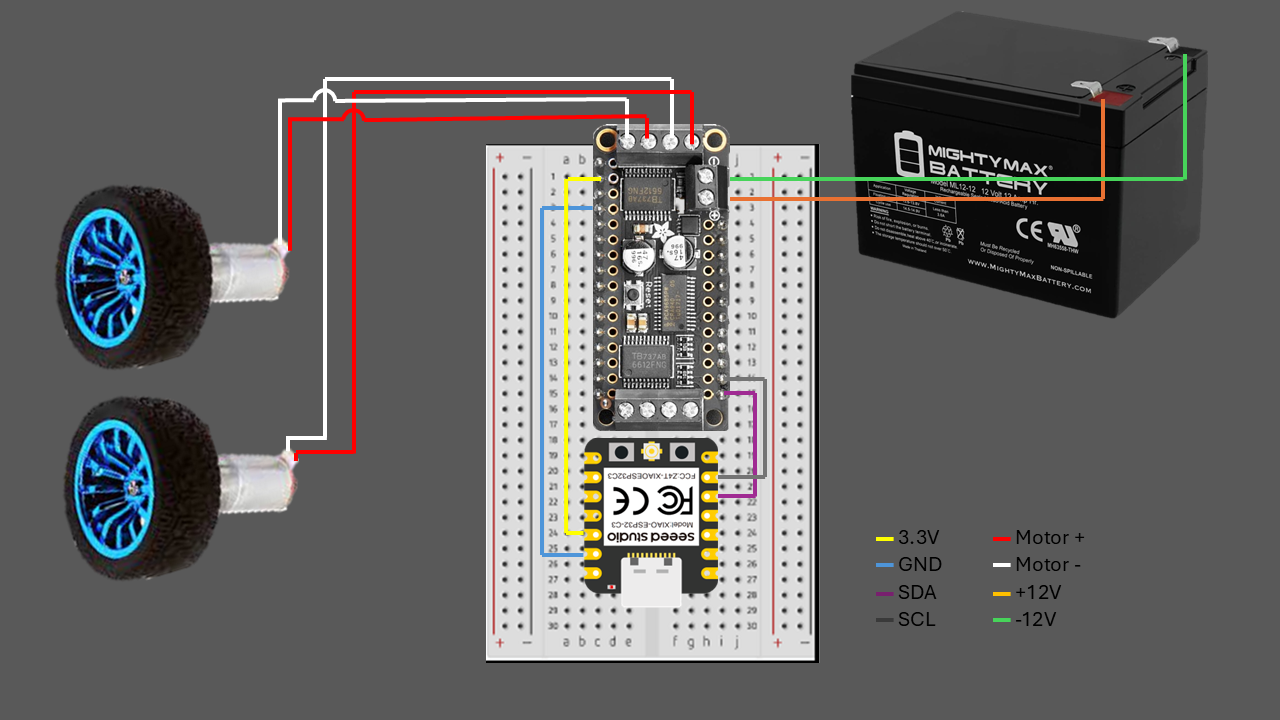
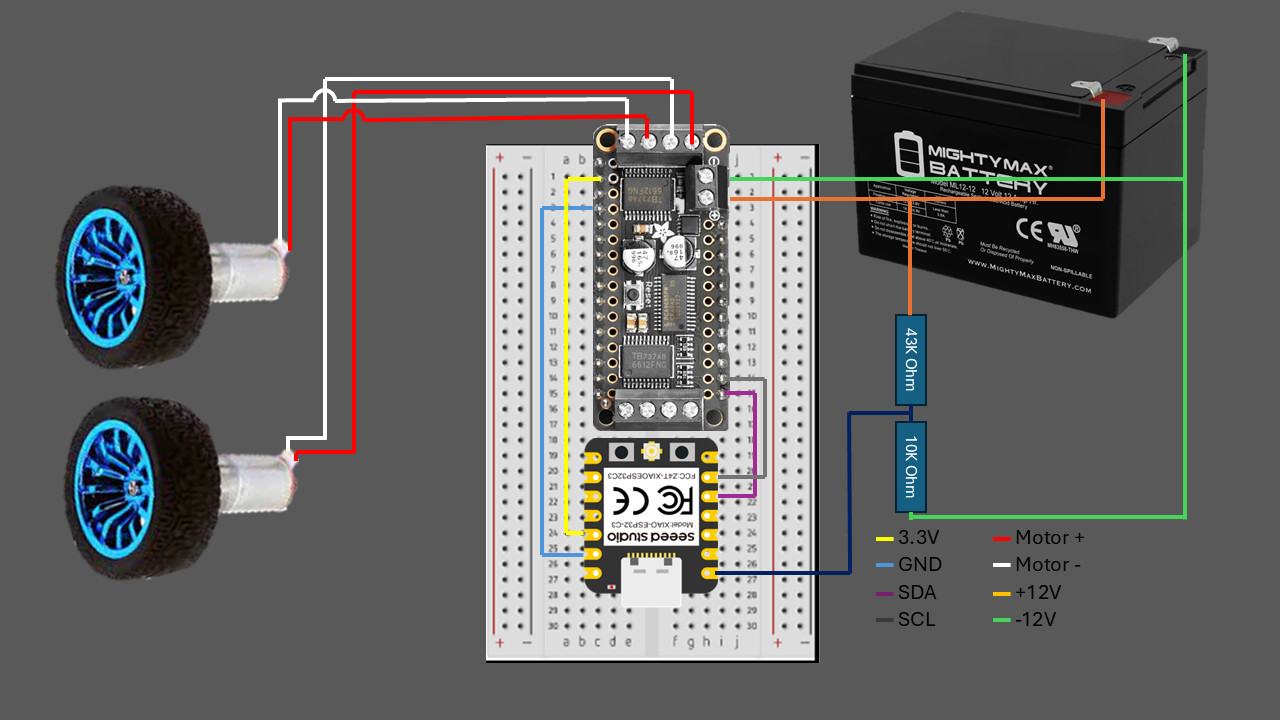
Update README.md to enhance battery monitoring section and clarify diagram description

Changed region(s): [[0.6562, 0.4278, 0.9375, 0.7333], [0.5625, 0.7944, 0.6562, 0.825], [0.6562, 0.7639, 0.6875, 0.7944]]

diff --git a/README.md b/README.md
@@ -1,5 +1,5 @@
 <p align="center">
-  <img src="assets/Diagram.png" alt="ESP32 Robot Controller Diagram" width="600"/>
+  <img src="assets/Diagram.png" alt="ESP32 Robot Controller Architecture" width="600"/>
 </p>
 
 <h1 align="center">ESP32 Robot Controller with Joystick 🎮</h1>
@@ -37,7 +37,9 @@ Mobile Robot/
 │
 ├── Motor Control/                  # PlatformIO project for ESP32 firmware
 │   ├── src/
-│   │   └── main.cpp                # Firmware: handles motor control via serial
+│   │   ├── main.cpp                # Main loop
+│   │   ├── motor_driver.cpp/h      # Motor logic and serial input parsing
+│   │   ├── battery_level.cpp/h     # Battery monitoring with smoothing + alerts
 │   ├── platformio.ini              # ESP32 build config (Seeed XIAO ESP32-C3)
 │   └── ...                         # Other PlatformIO folders (.pio, lib, test, etc.)
 │
@@ -54,7 +56,8 @@ This project is designed with future ROS 2 integration in mind, allowing the ESP
 
 ### ✅ Current Architecture
 - Joystick axis data is sent directly to the ESP32 via serial over USB.
-- The ESP32 applies differential drive logic and controls the motors accordingly.
+- The ESP32 applies differential drive logic and controls the motors.
+- It also performs battery voltage monitoring using ADC, smoothing with a moving average, and alerts via serial when battery is low.
 - Communication uses a simple `"X Y\n"` format for motor speeds from -255 to 255.
 
 ### 🚀 Future ROS 2 Upgrade Path
@@ -141,7 +144,6 @@ Use `joystick_to_serial.py` to:
 sudo apt install joystick
 export SDL_JOYSTICK_DEVICE=/dev/input/js0
 ```
-> You may also want to add it to `.bashrc` to automatically set SDL joystick device for Pygame.
 
 ---
 
@@ -155,6 +157,13 @@ right_speed = y - x
 - `x` controls turning
 - `y` controls forward/backward
 - Values are clamped to `-255 to 255`
+
+---
+
+## 🪫 Battery Monitoring
+The ESP32 reads the main battery voltage via an analog pin. A moving average filter ensures smooth readings. If voltage drops below `11.0 V`, a warning is printed to the serial console.
+
+You can optionally use this to shut down motors, flash an LED, or send battery data back to the host via serial.
 
 ---
 
